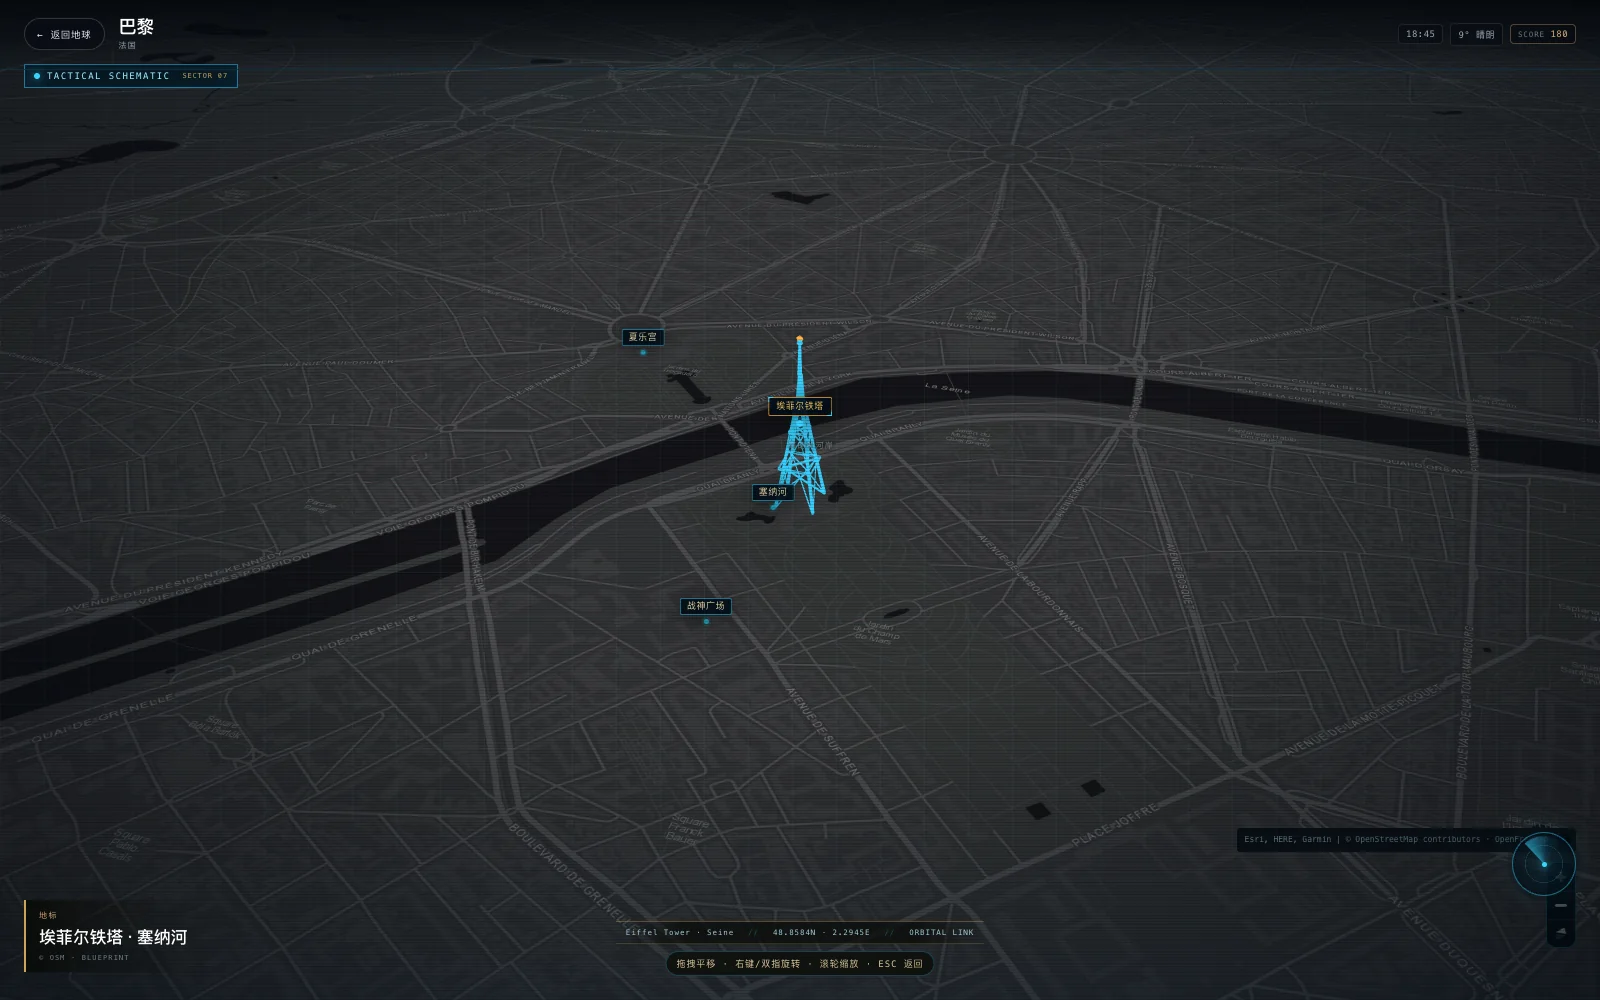
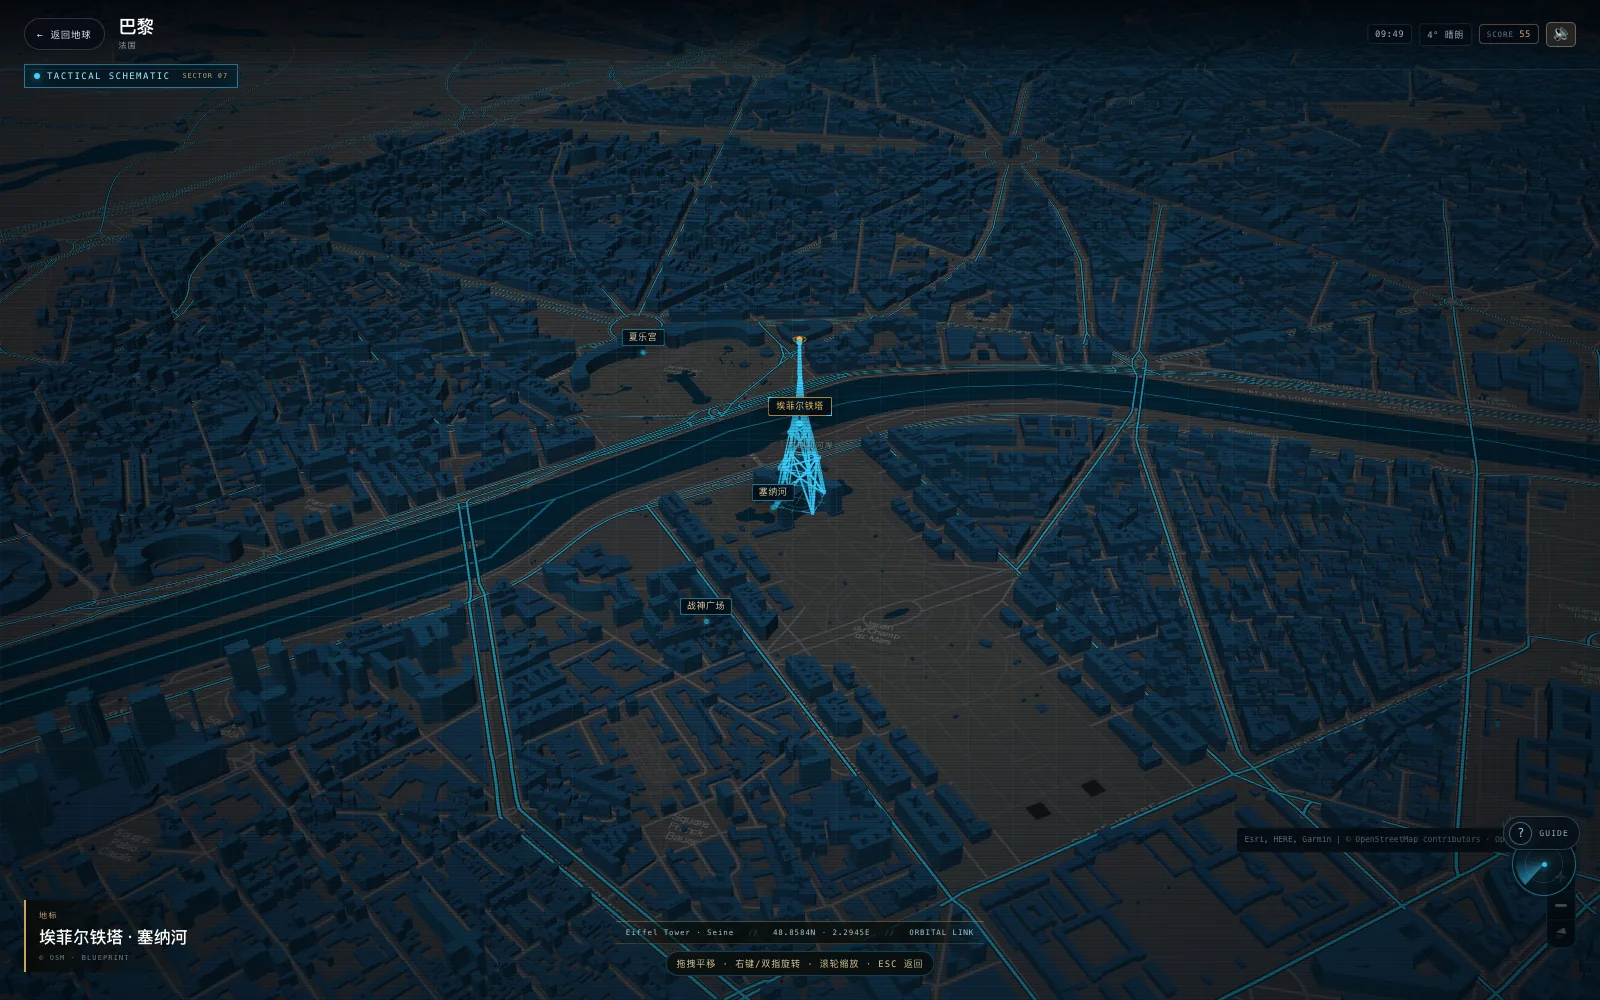
feat: refine blueprint landmark rendering
Use OSM massing plus a tapered lock-on frame and ALT readout for the supertalls that read from the map (Empire State, Burj Khalifa, CN Tower, Ryugyong). Render the rest as structural edge wireframes with a ground survey ring and beacon; hide the Eiffel's 48x48 m OSM extrusion so the lattice is the only Eiffel. Update the guide, README and preview images.

diff --git a/earth-online/index.html b/earth-online/index.html
@@ -5991,10 +5991,10 @@ const CITY_MAPS = {
     roads:[{zh:'菩提树下大街',en:'Unter den Linden',lng:13.38,lat:52.517}]
   },
   pyongyang: {
-    center:[125.7300,39.0360], zoom:14.4, pitch:55, bearing:-18, origin:[125.7300,39.0360], height:330,
+    center:[125.73087,39.03652], zoom:14.4, pitch:55, bearing:-18, origin:[125.73087,39.03652], height:330,
     label:{zh:'柳京饭店 · 大同江',en:'Ryugyong Hotel · Taedong'},
     points:[
-      {id:'ryugyong',name:{zh:'柳京饭店',en:'Ryugyong Hotel'},lng:125.7300,lat:39.0360,height:330,major:true},
+      {id:'ryugyong',name:{zh:'柳京饭店',en:'Ryugyong Hotel'},lng:125.73087,lat:39.03652,height:330,major:true},
       {id:'square',name:{zh:'金日成广场',en:'Kim Il-sung Square'},lng:125.752,lat:39.019,height:0},
       {id:'taedong',name:{zh:'大同江',en:'Taedong River'},lng:125.745,lat:39.025,height:0},
       {id:'juche',name:{zh:'主体思想塔',en:'Juche Tower'},lng:125.760,lat:39.018,height:0}
@@ -6252,7 +6252,6 @@ function buildTableMountainWire(){
 /* ---------------- Orbital Blueprint landmark layer ---------------- */
 
 const BP_CYAN = 0x39d0ff;
-const BP_PALE = 0x7fe7ff;
 const BP_AMBER = 0xffb347;
 
 // Landmarks whose OSM mass already reads as the building: keep the map model
@@ -6264,8 +6263,15 @@ const LANDMARK_BLUEPRINT = {
   empire:    { mode:'osm', alt:443, radius:62 },
   burj:      { mode:'osm', alt:828, radius:78 },
   cntower:   { mode:'osm', alt:553, radius:32 },
-  ryugyong:  { mode:'osm', alt:330, radius:64 },
-  taipei101: { mode:'osm', alt:508, radius:52 }
+  ryugyong:  { mode:'osm', alt:330, radius:64 }
+};
+
+// OSM building ids that are hidden under a structural wireframe. The Eiffel
+// Tower's 48x48 m footprint is extruded as a single 330 m column, which reads
+// as a skyscraper, so the OSM 2D/3D mass is removed and the lattice is the only
+// Eiffel on the map. Ids come from the OpenFreeMap z14 building tile.
+const LANDMARK_MASS_EXCLUDE = {
+  paris: [14625977622, 3080213892, 3086877450, 41148423, 3086877440]
 };
 
 function bpLineMat(color, opacity){
@@ -6367,11 +6373,12 @@ function buildBlueprintBase(height, radius, opts = {}){
   }
 
   const br = Math.max(0.5, height * 0.011);
+  const beaconY = opts.beaconY ?? height;
   const beacon = new THREE.Mesh(
     new THREE.SphereGeometry(br, 10, 8),
     new THREE.MeshBasicMaterial({ color: BP_AMBER, depthTest:false, depthWrite:false })
   );
-  beacon.position.y = height + br * 0.5;
+  beacon.position.y = beaconY + br * 0.5;
   g.add(beacon);
   const pulse = new THREE.Mesh(
     new THREE.RingGeometry(br * 1.5, br * 2.1, 28),
@@ -6441,7 +6448,7 @@ function addShanghaiLandmarkLayer(map){
       blueprintize(group, { fill: isTable ? 0.18 : 0.28 });
       const box = new THREE.Box3().setFromObject(group);
       const span = Math.max(box.max.x - box.min.x, box.max.z - box.min.z);
-      const base = buildBlueprintBase(native, Math.max(native * 0.08, span * 0.52), { top: false });
+      const base = buildBlueprintBase(native, Math.max(native * 0.08, span * 0.52), { top: false, beaconY: Math.min(native, box.max.y) });
       group.add(base);
       group.userData.pulse = base.userData.pulse;
       modelScale = (active.height || native) / native;
@@ -6483,6 +6490,12 @@ function addShanghaiLandmarkLayer(map){
     }
   };
   try { map.addLayer(layer); } catch(e){ console.warn('[city-landmark] layer',e); }
+  const exclude = LANDMARK_MASS_EXCLUDE[city.id];
+  if (exclude && exclude.length){
+    try {
+      map.setFilter('buildings-3d', ['all', ['!', ['has', 'hide_3d']], ['!', ['in', ['id'], ['literal', exclude]]]]);
+    } catch(e){ console.warn('[city-landmark] mass filter', e); }
+  }
 }
 
 function removeShanghaiLoading(){
@@ -6554,7 +6567,6 @@ async function openShanghaiMap(city){
       attributionControl: false
     });
     shanghaiMap = map;
-    window.__earthMap = map; // TEMP debug
     map.addControl(new maplibregl.NavigationControl({ visualizePitch: true, showCompass: true }), 'bottom-right');
     map.addControl(new maplibregl.AttributionControl({
       compact: true,
@@ -6928,8 +6940,8 @@ const GUIDE_ITEMS = [
     en: { title: 'Basemap fallback', desc: 'When vector tiles are unavailable, an Esri dark-gray raster base keeps the city, labels and landmarks readable.', tech: 'OSM vector + Esri raster' }
   },
   {
-    zh: { title: '线框地标', desc: '每城程序化地标转换为青色线框，叠加在 MapLibre 上；上海东方明珠为专用线框模型。', tech: 'Three.js 自定义层' },
-    en: { title: 'Wireframe landmarks', desc: 'Procedural landmarks become cyan wireframes on a Three.js custom layer; Shanghai has a bespoke Oriental Pearl model.', tech: 'Three.js custom layer' }
+    zh: { title: '蓝图地标层', desc: '超高层直接用 OSM 体量并加瞄准框与海拔；其余转为结构线框，补齐拉伸体表达不了的轮廓。', tech: 'OSM 体量 + Three.js' },
+    en: { title: 'Blueprint landmarks', desc: 'OSM massing plus a lock-on frame for supertalls; structural edge wireframes for silhouettes an extrusion cannot express.', tech: 'OSM + Three.js' }
   },
   {
     zh: { title: '大洲引导', desc: '首次进入按浏览器时区推断大洲，自动把地球转到该大洲并显示 chip；不使用定位权限。', tech: '时区推断 + 相机定位' },

diff --git a/earth-online/README.md b/earth-online/README.md
@@ -9,7 +9,7 @@ A real-time, shareable Earth for [elevenbeans.me](https://elevenbeans.me) — NA
 ## What you can do
 
 - **Focus a city — +5.** Click or tap a marker dot **or its label**. The camera flies in, the weather panel opens, and the shared city score increments.
-- **Enter the city — +10.** The panel's **进入城市 · +10** button opens a full-screen Orbital Blueprint map of the city's signature district, with OSM building footprints/heights, a wireframe landmark, and local labels. Repeatable: come back and enter again for another +10.
+- **Enter the city — +10.** The panel's **进入城市 · +10** button opens a full-screen Orbital Blueprint map of the city's signature district, with OSM building footprints/heights, a blueprint landmark layer, and local labels. Repeatable: come back and enter again for another +10.
 - **Shared city score.** The left board lists all 34 cities, highest first, with the total shared across every visitor. On mobile the same board opens from the **▤** button in the top bar.
 - **First-visit continent intro.** The globe infers the visitor's continent from the browser timezone (no location permission prompt), centers on it, and shows a small continent chip. A `?city=` deep link skips the intro.
 - **No economy.** There are no credits, contracts, levels, combos, ranks, stability or demolition/rebuild. The visit itself is the score.
@@ -36,12 +36,13 @@ Every city now opens the same MapLibre/OSM city view instead of a procedural dio
 - **OpenFreeMap / OpenStreetMap** supplies building footprints and `render_height` values, extruded in 3D.
 - **Esri World Dark Gray Base** is used as a no-key raster fallback so a city is still readable when vector tiles are slow or unavailable.
 - **Orbital Blueprint palette:** deep navy land and water, cyan building outlines and roads, cyan grid/scanlines and radar, with amber selected labels and the city score. A `TACTICAL SCHEMATIC` HUD sits over the map. No satellite layer is used.
-- Each city has a **wireframe landmark** drawn in a Three.js custom layer: Oriental Pearl, Temple of Heaven, Anshun Bridge, Bank of China, the Giant Wild Goose Pagoda, Hongya Cave, Ping An Finance, Canton Tower, Potala Palace, Taipei 101, Tokyo Tower, N Seoul Tower, Marina Bay Sands, Gateway of India, Burj Khalifa, St. Basil's, the Giza pyramids, Table Mountain, Big Ben, the Eiffel Tower, the Empire State Building, the Golden Gate Bridge, MASP, the Sydney Opera House, Amsterdam canal houses, the Brandenburg Gate, Ryugyong Hotel, Hagia Sophia, Bitexco Tower, Wat Arun, CN Tower, the Royal Palace of Madrid, the Colosseum, and Flinders Street Station.
+- Each city has a **blueprint landmark layer** drawn in a Three.js custom layer. Where the OSM massing already reads as the landmark (Empire State, Burj Khalifa, CN Tower, Ryugyong Hotel), the map model is the landmark and a real-height **lock-on frame** adds a ground survey ring, tapered guide volume, altitude ruler and amber beacon. Everywhere else a **structural edge wireframe** carries the silhouette that a single-height extrusion cannot: Oriental Pearl, Taipei 101, Temple of Heaven, Anshun Bridge, Bank of China, the Giant Wild Goose Pagoda, Hongya Cave, Ping An Finance, Canton Tower, Potala Palace, Tokyo Tower, N Seoul Tower, Marina Bay Sands, Gateway of India, St. Basil's, the Giza pyramids, Table Mountain, Big Ben, the Eiffel Tower, the Golden Gate Bridge, MASP, the Sydney Opera House, Amsterdam canal houses, the Brandenburg Gate, Hagia Sophia, Bitexco Tower, Wat Arun, the Royal Palace of Madrid, the Colosseum, and Flinders Street Station.
+- The Eiffel Tower's OSM footprint is excluded from the building extrusion because a 48×48 m footprint swept to 330 m reads as a skyscraper; the structural lattice is the only Eiffel on the map.
 - **No API key** is required at runtime; internet access is required for the raster/vector tiles.
 
 ## 3D city detail
 
-The city view is the real-map district described above, with a wireframe landmark and pinned labels. If MapLibre fails, the old procedural Three.js landmark/district is used as a fallback. The globe and weather panel still show the city's local time and current conditions.
+The city view is the real-map district described above, with a blueprint landmark layer and pinned labels. If MapLibre fails, the old procedural Three.js landmark/district is used as a fallback. The globe and weather panel still show the city's local time and current conditions.
 
 | City | Landmark |
 | --- | --- |
@@ -91,6 +92,10 @@ Drag to pan, scroll or pinch to zoom, right-drag or two fingers rotate/pitch the
 | All 34 cities — Orbital Blueprint | |
 | --- | --- |
 | ![All 34 Orbital Blueprint city maps](preview/cities-contact.webp) | |
+
+| Blueprint landmark layer — lattice vs OSM lock-on | |
+| --- | --- |
+| ![Paris lattice, New York and Dubai lock-on, Taipei 101 wireframe](preview/blueprint-landmarks.webp) | |
 
 | Shanghai | Paris |
 | --- | --- |
@@ -171,7 +176,7 @@ The home page uses an original slow piano piece in A minor: broken chords, a low
 - `vendor/three.module.min.js` is Three.js r160 (MIT), loaded locally with a CDN fallback.
 - `vendor/maplibre-gl.js` + CSS are MapLibre GL JS 4.7 (BSD-3), loaded locally for every city view.
 - Each city's 3D layer is a MapLibre `fill-extrusion` of the `building` source-layer from OpenFreeMap, combined with water/road layers, an Esri dark-gray raster fallback, a blueprint HUD overlay and HTML landmark labels. No building data file is bundled; tiles are fetched at runtime.
-- Each landmark is a separate Three.js custom layer on the MapLibre canvas: the old procedural geometry is converted to cyan wireframe, scaled to the city's visual landmark height, and given an amber beacon. Shanghai keeps its bespoke Oriental Pearl wireframe.
+- Each landmark is a separate Three.js custom layer on the MapLibre canvas. The four OSM-readable supertalls get a lock-on frame tied to the map's `building:part` massing and a real `ALT` readout; the rest get structural edges (`EdgesGeometry`, not a triangulated wireframe) over a dim volume, scaled to the city's visual landmark height. Both use a ground survey ring and an amber beacon; Shanghai keeps its bespoke Oriental Pearl geometry in the same edge language.
 - `textures/` holds NASA day, night-lights and cloud maps (public domain, via the Three.js examples).
 - The globe uses a custom shader to blend day/night maps at the real subsolar point, with a warm terminator band, atmospheric rim, stars, clouds and great-circle arcs.
 - City markers are HTML buttons projected from 3D positions each frame, so they stay crisp and keyboard accessible.
@@ -183,8 +188,8 @@ The home page uses an original slow piano piece in A minor: broken chords, a low
 
 ## Known limitations
 
-- All city maps are stylised Orbital Blueprint views, not photo-real. The wireframe landmarks are deliberately exaggerated where the real structure is low, so it reads at map scale. Photo-real Google/Amap/Baidu detail would require their platform keys and 3D tiles.
-- OSM building coverage and OpenFreeMap tile availability vary by city. The Esri dark-gray raster base keeps the district readable when 3D building tiles are missing; a city may temporarily show a 2D base plus the wireframe landmark.
+- All city maps are stylised Orbital Blueprint views, not photo-real. Non-supertall landmarks are deliberately exaggerated where the real structure is low so they read at map scale; the four lock-on cities use the real OSM massing and altitude. Photo-real Google/Amap/Baidu detail would require their platform keys and 3D tiles.
+- OSM building coverage and OpenFreeMap tile availability vary by city. The Esri dark-gray raster base keeps the district readable when 3D building tiles are missing; a city may temporarily show a 2D base plus the blueprint landmark.
 - The view needs network access for raster/vector tiles. If MapLibre fails entirely, the procedural Three.js district is used as a fallback.
 - Shared scores require the NAS API. Without it the board shows offline, keeps optimistic points, and retries queued events when the connection returns.
 - Weather is current conditions at roughly 15-minute resolution; if Open-Meteo is unavailable the panel shows a retry state and the 3D scene falls back to the city's local day/night.
